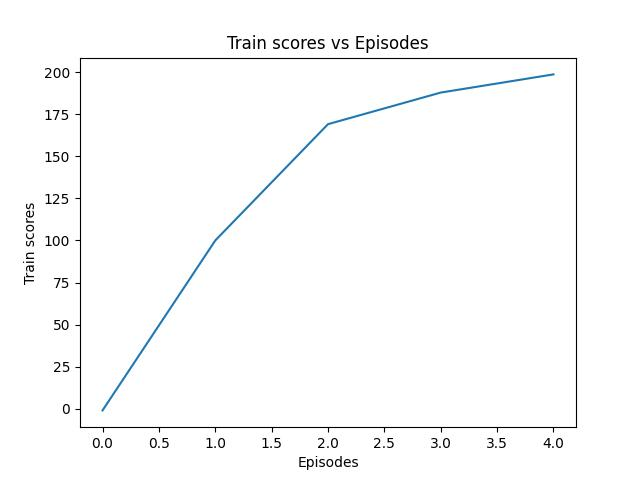
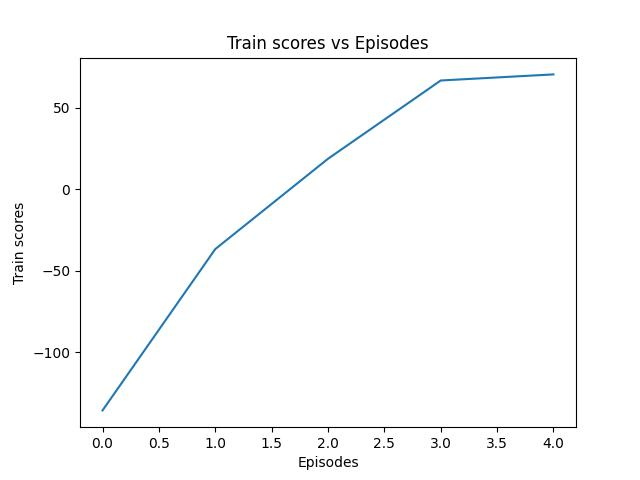
opencv labels fixed

diff --git a/agent.py b/agent.py
@@ -17,8 +17,8 @@ from constants import *
 from utils import *
 
 # Configuration file path
-config_file_path = os.path.join(vzd.scenarios_path, "deadly_corridor.cfg")
-# config_file_path = os.path.join(vzd.scenarios_path, "simpler_basic.cfg")
+# config_file_path = os.path.join(vzd.scenarios_path, "deadly_corridor.cfg")
+config_file_path = os.path.join(vzd.scenarios_path, "simpler_basic.cfg")
 # config_file_path = os.path.join(vzd.scenarios_path, "rocket_basic.cfg")
 # config_file_path = os.path.join(vzd.scenarios_path, "basic.cfg")
 
@@ -37,32 +37,39 @@ def run(game, agent, actions, num_epochs, frame_repeat, steps_per_epoch=2000):
         
         for _ in trange(steps_per_epoch, leave=False):
 
-#            if show_labels and visible_during_train:
-#                _state = game.get_state()
-#                if _state:
-#                    labels = _state.labels_buffer
-#
-#                    if labels is not None:
-#                        cv2.imshow('ViZDoom Labels Buffer', color_labels(labels))
-#
-#                    screen = _state.screen_buffer
-#                    for l in _state.labels:
-#                        if l.object_name in ["Medkit", "GreenArmor"]:
-#                            draw_box(screen, l.x, l.y, l.width, l.height, doom_blue_color)
-#                        else:
-#                            draw_box(screen, l.x, l.y, l.width, l.height, doom_red_color)
-#                    cv2.imshow('ViZDoom Screen Buffer', screen)
-#                    cv2.waitKey(28)
+            if show_labels and visible_during_train:
+                _state = game.get_state()
+                if _state:
+                    labels = _state.labels_buffer
+
+                    if labels is not None:
+                        cv2.imshow('ViZDoom Labels Buffer', color_labels(labels))
+
+                    screen = _state.screen_buffer
+                    for l in _state.labels:
+                        if l.object_name in ["Medkit", "GreenArmor"]:
+                            draw_box(screen, l.x, l.y, l.width, l.height, doom_blue_color)
+                        else:
+                            draw_box(screen, l.x, l.y, l.width, l.height, doom_red_color)
+                    cv2.imshow('ViZDoom Screen Buffer', screen)
+                    cv2.waitKey(28)
 
             state = preprocess(game.get_state().screen_buffer)
+            if show_labels:
+                state = np.reshape(state, (3, 30, 45))
             action = agent.get_action(state)
             reward = game.make_action(actions[action], frame_repeat)
             done = game.is_episode_finished()
                         
             if not done:
                 next_state = preprocess(game.get_state().screen_buffer)
+                if show_labels:
+                    next_state = np.reshape(next_state, (3, 30, 45))
             else:
-                next_state = np.zeros((1, 30, 45)).astype(np.float32)
+                if not show_labels:
+                    next_state = np.zeros((1, 30, 45)).astype(np.float32)
+                else:
+                    next_state = np.zeros((3, 30, 45)).astype(np.float32)
 
             agent.append_memory(state, action, reward, next_state, done)
 
@@ -105,7 +112,7 @@ class DoubleQNet(nn.Module):
     def __init__(self, available_actions_count):
         super(DoubleQNet, self).__init__()
         self.conv1 = nn.Sequential(
-            nn.Conv2d(1, 8, kernel_size=3, stride=2, bias=False),
+            nn.Conv2d(3 if show_labels else 1, 8, kernel_size=3, stride=2, bias=False),
             nn.BatchNorm2d(8),
             nn.ReLU()
         )
@@ -263,6 +270,8 @@ if __name__ == '__main__':
         game.new_episode()
         while not game.is_episode_finished():
             state = preprocess(game.get_state().screen_buffer)
+            if show_labels:
+                state = np.reshape(state, (3, 30, 45))
             best_action_index = agent.get_action(state)
 
             game.set_action(actions[best_action_index])

diff --git a/utils.py b/utils.py
@@ -20,16 +20,16 @@ def generate_game(config_file_path):
     game.load_config(config_file_path)
     game.set_window_visible(visible_during_train)
     game.set_mode(vzd.Mode.PLAYER)
-#    if show_labels:
-#        game.set_screen_format(vzd.ScreenFormat.BGR24)
-#        game.set_labels_buffer_enabled(True)
-#        game.clear_available_game_variables()
-#        game.add_available_game_variable(vzd.GameVariable.POSITION_X)
-#        game.add_available_game_variable(vzd.GameVariable.POSITION_Y)
-#        game.add_available_game_variable(vzd.GameVariable.POSITION_Z)
-#    else:
-#        game.set_screen_format(vzd.ScreenFormat.GRAY8)
-    game.set_screen_format(vzd.ScreenFormat.GRAY8)
+    if show_labels:
+        game.set_screen_format(vzd.ScreenFormat.BGR24)
+        game.set_labels_buffer_enabled(True)
+        game.clear_available_game_variables()
+        game.add_available_game_variable(vzd.GameVariable.POSITION_X)
+        game.add_available_game_variable(vzd.GameVariable.POSITION_Y)
+        game.add_available_game_variable(vzd.GameVariable.POSITION_Z)
+    else:
+        game.set_screen_format(vzd.ScreenFormat.GRAY8)
+#    game.set_screen_format(vzd.ScreenFormat.GRAY8)
     game.set_screen_resolution(vzd.ScreenResolution.RES_640X480)
     game.init()
     print("Doom initialized.")
@@ -40,10 +40,12 @@ def generate_game(config_file_path):
 def test(game, agent, actions):
     print("\nTesting...")
     test_scores = []
-    for test_episode in trange(test_episodes_per_epoch, leave=False):
+    for _ in trange(test_episodes_per_epoch, leave=False):
         game.new_episode()
         while not game.is_episode_finished():
             state = preprocess(game.get_state().screen_buffer)
+            if show_labels:
+                state = np.reshape(state, (3, 30, 45))
             best_action_index = agent.get_action(state)
 
             game.make_action(actions[best_action_index], frame_repeat)

diff --git a/constants.py b/constants.py
@@ -15,10 +15,10 @@ test_episodes_per_epoch = 10
 frame_repeat = 12
 resolution = (30, 45)
 episodes_to_watch = 10
-model_savefile = "./deadly-agent.pth"
-save_model = True
-load_model = False
-skip_learning = False
+model_savefile = "./doom-agent-with-labels.pth"
+save_model = False
+load_model = True
+skip_learning = True
 visible_during_train = False
 doom_red_color = [0, 0, 203]
 doom_blue_color = [203, 0, 0]
